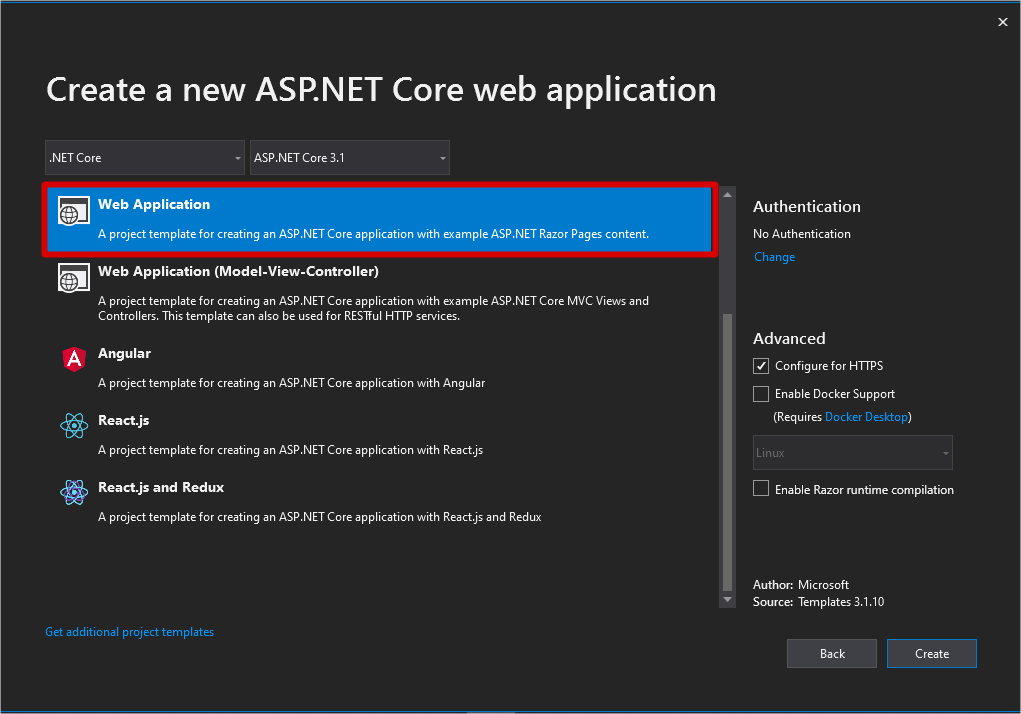
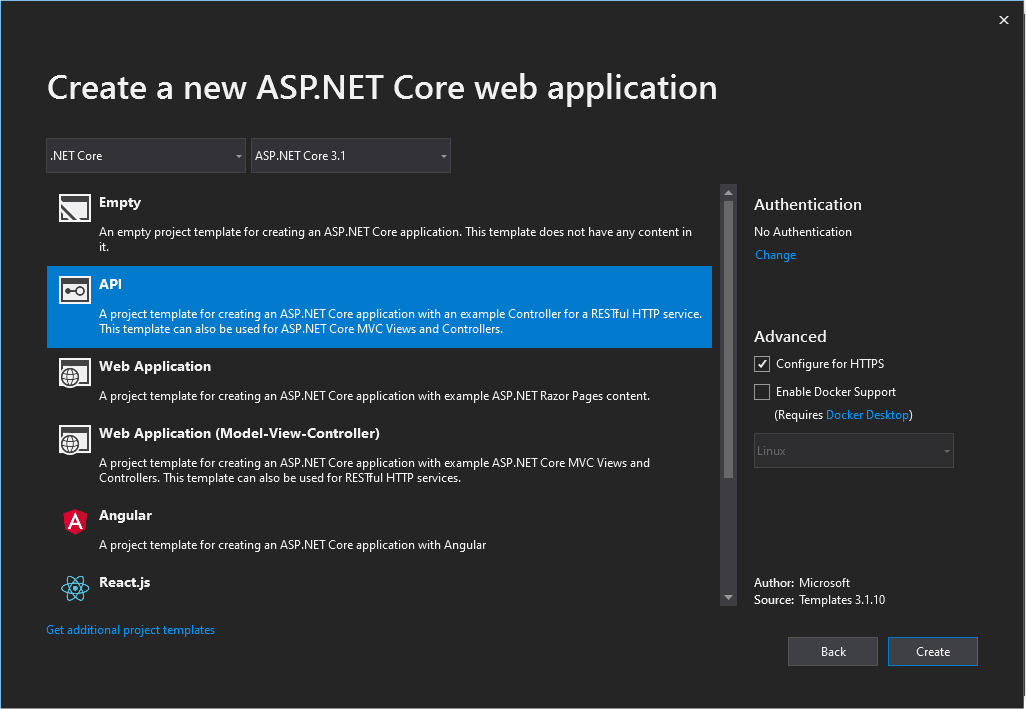
Initial Project

diff --git a/Proyecto/Api/WebDev.Api/WebDev.Api/Startup.cs b/Proyecto/Api/WebDev.Api/WebDev.Api/Startup.cs
@@ -1,0 +1,51 @@
+using System;
+using System.Collections.Generic;
+using System.Linq;
+using System.Threading.Tasks;
+using Microsoft.AspNetCore.Builder;
+using Microsoft.AspNetCore.Hosting;
+using Microsoft.AspNetCore.HttpsPolicy;
+using Microsoft.AspNetCore.Mvc;
+using Microsoft.Extensions.Configuration;
+using Microsoft.Extensions.DependencyInjection;
+using Microsoft.Extensions.Hosting;
+using Microsoft.Extensions.Logging;
+
+namespace WebDev.Api
+{
+  public class Startup
+  {
+    public Startup(IConfiguration configuration)
+    {
+      Configuration = configuration;
+    }
+
+    public IConfiguration Configuration { get; }
+
+    // This method gets called by the runtime. Use this method to add services to the container.
+    public void ConfigureServices(IServiceCollection services)
+    {
+      services.AddControllers();
+    }
+
+    // This method gets called by the runtime. Use this method to configure the HTTP request pipeline.
+    public void Configure(IApplicationBuilder app, IWebHostEnvironment env)
+    {
+      if (env.IsDevelopment())
+      {
+        app.UseDeveloperExceptionPage();
+      }
+
+      app.UseHttpsRedirection();
+
+      app.UseRouting();
+
+      app.UseAuthorization();
+
+      app.UseEndpoints(endpoints =>
+      {
+        endpoints.MapControllers();
+      });
+    }
+  }
+}

diff --git a/Proyecto/Api/WebDev.Api/WebDev.Api/Controllers/WeatherForecastController.cs b/Proyecto/Api/WebDev.Api/WebDev.Api/Controllers/WeatherForecastController.cs
@@ -1,0 +1,39 @@
+using System;
+using System.Collections.Generic;
+using System.Linq;
+using System.Threading.Tasks;
+using Microsoft.AspNetCore.Mvc;
+using Microsoft.Extensions.Logging;
+
+namespace WebDev.Api.Controllers
+{
+  [ApiController]
+  [Route("[controller]")]
+  public class WeatherForecastController : ControllerBase
+  {
+    private static readonly string[] Summaries = new[]
+    {
+            "Freezing", "Bracing", "Chilly", "Cool", "Mild", "Warm", "Balmy", "Hot", "Sweltering", "Scorching"
+        };
+
+    private readonly ILogger<WeatherForecastController> _logger;
+
+    public WeatherForecastController(ILogger<WeatherForecastController> logger)
+    {
+      _logger = logger;
+    }
+
+    [HttpGet]
+    public IEnumerable<WeatherForecast> Get()
+    {
+      var rng = new Random();
+      return Enumerable.Range(1, 5).Select(index => new WeatherForecast
+      {
+        Date = DateTime.Now.AddDays(index),
+        TemperatureC = rng.Next(-20, 55),
+        Summary = Summaries[rng.Next(Summaries.Length)]
+      })
+      .ToArray();
+    }
+  }
+}

diff --git a/Proyecto/Api/WebDev.Api/WebDev.Api/Program.cs b/Proyecto/Api/WebDev.Api/WebDev.Api/Program.cs
@@ -1,0 +1,26 @@
+using System;
+using System.Collections.Generic;
+using System.Linq;
+using System.Threading.Tasks;
+using Microsoft.AspNetCore.Hosting;
+using Microsoft.Extensions.Configuration;
+using Microsoft.Extensions.Hosting;
+using Microsoft.Extensions.Logging;
+
+namespace WebDev.Api
+{
+  public class Program
+  {
+    public static void Main(string[] args)
+    {
+      CreateHostBuilder(args).Build().Run();
+    }
+
+    public static IHostBuilder CreateHostBuilder(string[] args) =>
+        Host.CreateDefaultBuilder(args)
+            .ConfigureWebHostDefaults(webBuilder =>
+            {
+              webBuilder.UseStartup<Startup>();
+            });
+  }
+}

diff --git a/Proyecto/Api/WebDev.Api/WebDev.Api/WeatherForecast.cs b/Proyecto/Api/WebDev.Api/WebDev.Api/WeatherForecast.cs
@@ -1,0 +1,15 @@
+using System;
+
+namespace WebDev.Api
+{
+  public class WeatherForecast
+  {
+    public DateTime Date { get; set; }
+
+    public int TemperatureC { get; set; }
+
+    public int TemperatureF => 32 + (int)(TemperatureC / 0.5556);
+
+    public string Summary { get; set; }
+  }
+}
